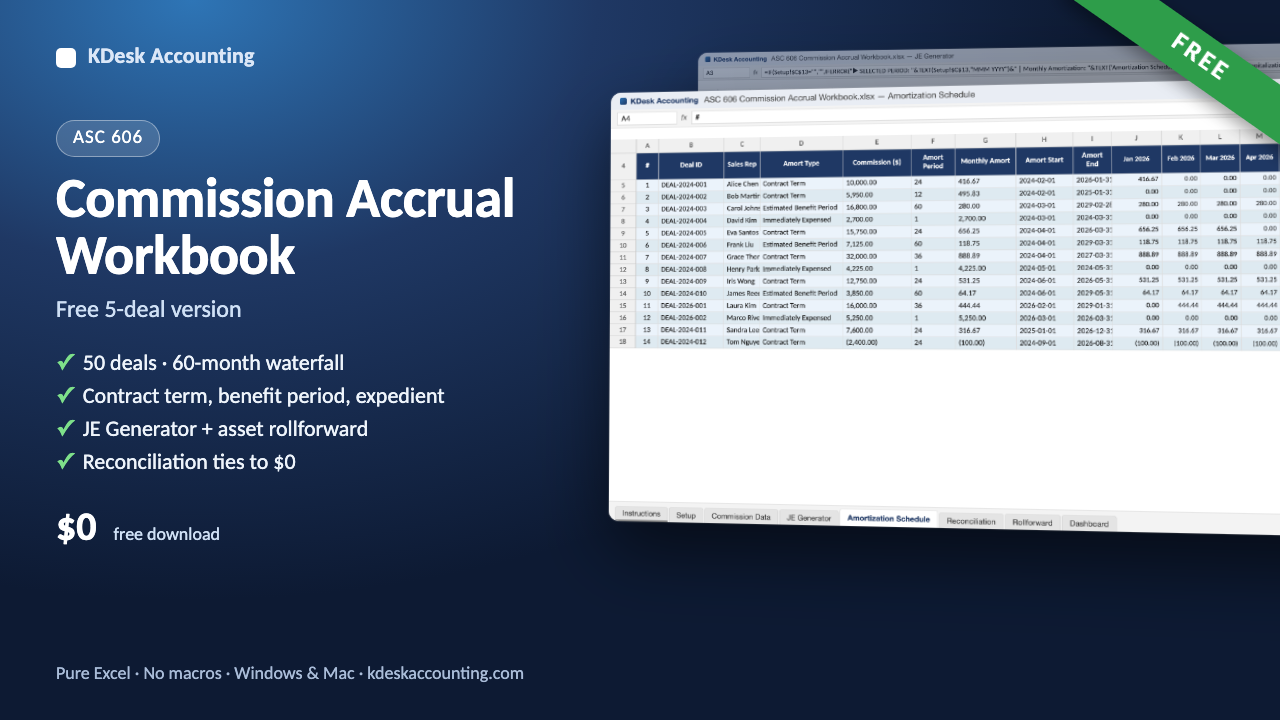
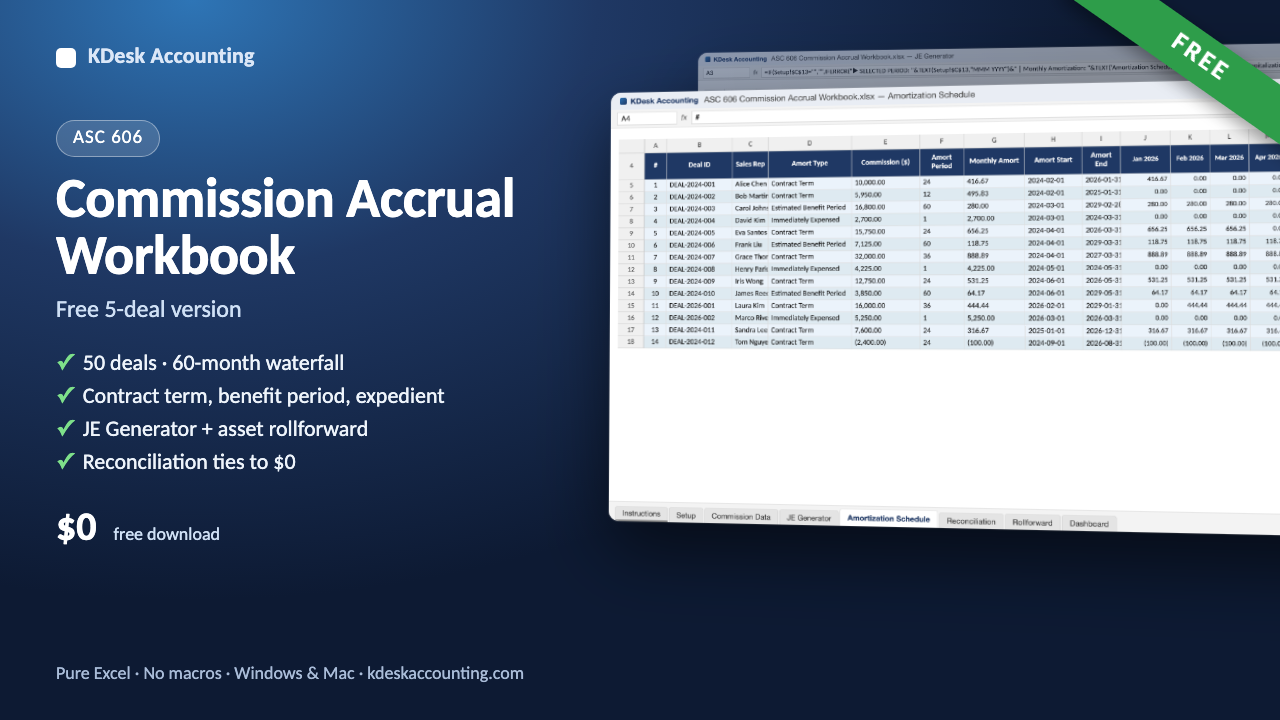
Repricing (decision 52 executed): ASC 842 $97→$249, ASC 606 $79→$249, bundle $249→$599 (list $693, saves $94) — product pages, templates index, homepage and list layouts, calculator CTAs, footer, video-spec cover prices, re-rendered covers
Claude-Session: https://claude.ai/code/session_01Lr6VMdS9aWNJCmhWcPCNAn

Changed region(s): [[0.4688, 0.2139, 1.0, 0.4889]]

diff --git a/layouts/index.html b/layouts/index.html
@@ -125,18 +125,18 @@
           <p class="kd-product__desc">
             All five workbooks in one purchase — ASC 842 leases, ASC 606 commissions,
             fixed assets, SaaS metrics, and runway — plus the month-end close checklist
-            that ties them together. $249 instead of $371.
+            that ties them together. $599 instead of $693.
           </p>
           <ul class="kd-product__features">
             <li>Six workbooks, one purchase — each lands in your Gumroad library as its own product</li>
             <li>Same conventions in every file: Setup tab, yellow inputs, JE Generator, reconciliation to $0</li>
-            <li>Save $122 vs. buying separately</li>
+            <li>Save $94 vs. buying separately</li>
           </ul>
         </div>
         <div class="kd-product__foot">
           <div class="kd-product__price">
-            <span class="kd-product__amount">$249</span>
-            <span class="kd-product__per">one time · $371 separately</span>
+            <span class="kd-product__amount">$599</span>
+            <span class="kd-product__per">one time · $693 separately</span>
           </div>
           <a class="kd-btn kd-btn--primary" href="https://kdeskaccounting.gumroad.com/l/saas-controller-bundle" target="_blank">Get the Bundle →</a>
           <a class="kd-product__free" href="/templates/bundle/">What's included →</a>
@@ -165,7 +165,7 @@
         </div>
         <div class="kd-product__foot">
           <div class="kd-product__price">
-            <span class="kd-product__amount">$79</span>
+            <span class="kd-product__amount">$249</span>
             <span class="kd-product__per">one time</span>
           </div>
           <a class="kd-btn kd-btn--primary" href="https://kdeskaccounting.gumroad.com/l/mwmwpe" target="_blank">Get Template →</a>
@@ -197,7 +197,7 @@
         </div>
         <div class="kd-product__foot">
           <div class="kd-product__price">
-            <span class="kd-product__amount">$97</span>
+            <span class="kd-product__amount">$249</span>
             <span class="kd-product__per">one time</span>
           </div>
           <a class="kd-btn kd-btn--primary" href="https://kdeskaccounting.gumroad.com/l/phxigq" target="_blank">Get Template →</a>
@@ -374,7 +374,7 @@
 <section class="kd-bottom-cta">
   <div class="kd-container kd-bottom-cta__inner">
     <h2>Stop rebuilding the same schedule every month.</h2>
-    <p>$49–$97 gets you a production-ready workbook that handles everything in this guide
+    <p>$49–$249 gets you a production-ready workbook that handles everything in this guide
     — and ties out every time. No subscription. No software contract.</p>
     <a class="kd-btn kd-btn--yellow" href="/templates/">Browse All Templates →</a>
   </div>

diff --git a/layouts/templates/list.html b/layouts/templates/list.html
@@ -60,17 +60,17 @@
           <h3 class="kd-product__name">SaaS Controller Bundle</h3>
           <p class="kd-product__desc">
             All five workbooks in one purchase — ASC 842, ASC 606, fixed assets, SaaS metrics,
-            runway — plus the free month-end close checklist. $249 instead of $371.
+            runway — plus the free month-end close checklist. $599 instead of $693.
           </p>
           <ul class="kd-product__features">
             <li>Six workbooks, one purchase — each lands in your Gumroad library as its own product</li>
             <li>Same Setup / inputs / JE / reconciliation conventions in every file</li>
-            <li>Save $122 vs. buying separately</li>
+            <li>Save $94 vs. buying separately</li>
           </ul>
         </div>
         <div class="kd-product__foot">
           <div class="kd-product__price">
-            <span class="kd-product__amount">$249</span>
+            <span class="kd-product__amount">$599</span>
             <span class="kd-product__per">one time</span>
           </div>
           <a class="kd-btn kd-btn--primary" href="https://kdeskaccounting.gumroad.com/l/saas-controller-bundle" target="_blank">Get the Bundle →</a>
@@ -101,7 +101,7 @@
         </div>
         <div class="kd-product__foot">
           <div class="kd-product__price">
-            <span class="kd-product__amount">$97</span>
+            <span class="kd-product__amount">$249</span>
             <span class="kd-product__per">one time</span>
           </div>
           <a class="kd-btn kd-btn--primary" href="https://kdeskaccounting.gumroad.com/l/phxigq" target="_blank">Get Template →</a>
@@ -132,7 +132,7 @@
         </div>
         <div class="kd-product__foot">
           <div class="kd-product__price">
-            <span class="kd-product__amount">$79</span>
+            <span class="kd-product__amount">$249</span>
             <span class="kd-product__per">one time</span>
           </div>
           <a class="kd-btn kd-btn--primary" href="https://kdeskaccounting.gumroad.com/l/mwmwpe" target="_blank">Get Template →</a>
@@ -278,7 +278,7 @@
 <section class="kd-bottom-cta">
   <div class="kd-container kd-bottom-cta__inner">
     <h2>Stop rebuilding the same schedule every month.</h2>
-    <p>$49–$97 gets you a production-ready workbook that handles everything above
+    <p>$49–$249 gets you a production-ready workbook that handles everything above
     — and ties out every time. No subscription. No software contract.</p>
     <a class="kd-btn kd-btn--yellow" href="https://kdeskaccounting.gumroad.com" target="_blank">Visit Gumroad Store →</a>
   </div>

diff --git a/layouts/calculator/single.html b/layouts/calculator/single.html
@@ -274,7 +274,7 @@
       <div class="calc-cta">
         <strong>Need the full schedule?</strong>
         <p>The ASC 606 Commission Accrual Workbook handles 50 deals simultaneously with dynamic period selection, journal entry generation, rollforward disclosure, and reconciliation — all in Excel, no macros.</p>
-        <a href="https://kdeskaccounting.gumroad.com/l/mwmwpe" target="_blank">Get the Workbook — $79 →</a>
+        <a href="https://kdeskaccounting.gumroad.com/l/mwmwpe" target="_blank">Get the Workbook — $249 →</a>
       </div>
     </div>
   </div>
@@ -321,7 +321,7 @@
       <div class="calc-cta">
         <strong>Need the full schedule for all your leases?</strong>
         <p>The ASC 842 Lease Accounting Workbook handles 20 leases simultaneously with dynamic period selection, six-category journal entry generation, ROU asset rollforward, and reconciliation — all in Excel, no macros.</p>
-        <a href="https://kdeskaccounting.gumroad.com/l/phxigq" target="_blank">Get the Workbook — $97 →</a>
+        <a href="https://kdeskaccounting.gumroad.com/l/phxigq" target="_blank">Get the Workbook — $249 →</a>
       </div>
     </div>
   </div>

diff --git a/layouts/partials/footer.html b/layouts/partials/footer.html
@@ -13,7 +13,7 @@
       <div class="kd-footer__col">
         <h4 class="kd-footer__heading">Templates</h4>
         <ul class="kd-footer__list">
-          <li><a href="/templates/bundle/">SaaS Controller Bundle <em>(all 5, $249)</em></a></li>
+          <li><a href="/templates/bundle/">SaaS Controller Bundle <em>(all 5, $599)</em></a></li>
           <li><a href="/templates/asc842/">ASC 842 Lease Accounting</a></li>
           <li><a href="/templates/asc606/">ASC 606 Commission Capitalization</a></li>
           <li><a href="/templates/fixed-assets/">Fixed Asset Rollforward</a></li>

diff --git a/content/templates/bundle/index.md b/content/templates/bundle/index.md
@@ -1,14 +1,14 @@
 ---
 title: "SaaS Controller Bundle — All Five KDesk Excel Workbooks"
-description: "All five KDesk workbooks in one purchase for $249 instead of $371: ASC 842 lease accounting, ASC 606 commission capitalization, fixed asset rollforward, SaaS metrics dashboard, and startup runway calculator, plus the free month-end close checklist. Pure Excel, no macros, no subscription."
-summary: "The five technical-accounting workbooks a SaaS controller maintains every close — leases, commissions, fixed assets, SaaS metrics, runway — at $249 instead of $371, plus the close checklist that ties them together."
+description: "All five KDesk workbooks in one purchase for $599 instead of $693: ASC 842 lease accounting, ASC 606 commission capitalization, fixed asset rollforward, SaaS metrics dashboard, and startup runway calculator, plus the free month-end close checklist. Pure Excel, no macros, no subscription."
+summary: "The five technical-accounting workbooks a SaaS controller maintains every close — leases, commissions, fixed assets, SaaS metrics, runway — at $249 instead of $693, plus the close checklist that ties them together."
 date: 2026-09-01
-lastmod: 2026-09-02
+lastmod: 2026-09-06
 author: "KDesk Accounting"
 ShowToc: true
 TocOpen: true
 weight: 0
-price: 249
+price: 599
 buy_url: "https://kdeskaccounting.gumroad.com/l/saas-controller-bundle"
 free_url: "/templates/"
 free_label: "See the individual workbooks"
@@ -17,7 +17,7 @@ faq:
   - q: "What exactly is in the bundle?"
     a: "Six .xlsx files: the ASC 842 Lease Accounting Workbook (20 leases), the ASC 606 Commission Accrual Workbook (50 deals), the Fixed Asset Rollforward Workbook (50 assets), the SaaS Metrics & ARR Dashboard (24 months), the Startup Runway Calculator (48 months), and the Month-End Close Checklist + Tie-Out Workbook. They are the same files sold individually."
   - q: "How much do I save?"
-    a: "Bought separately the five paid workbooks are $371 ($97 + $79 + $79 + $67 + $49). The bundle is $249, a $122 saving, one-time, no subscription."
+    a: "Bought separately the five paid workbooks are $693 ($249 + $249 + $79 + $67 + $49). The bundle is $249, a $94 saving, one-time, no subscription."
   - q: "Do I get updates?"
     a: "Yes. Gumroad keeps the download link live, and when a workbook gets a version update the new file is added to the same purchase."
   - q: "Can I buy one now and upgrade to the bundle later?"
@@ -26,9 +26,9 @@ faq:
     a: "Yes. Every workbook is pure Excel formulas — no VBA macros, no Windows-only features. Excel 2016, Excel 365, and Excel for Mac."
 ---
 
-If you run leases, commissions, fixed assets, SaaS metrics, and a cash forecast in Excel, you are maintaining five schedules that each need to tie to the general ledger every close. These are the five workbooks that do it — audit-ready, formula-complete, reconciled to $0 — in one purchase. **$249 one-time instead of $371. No subscription. No macros.**
+If you run leases, commissions, fixed assets, SaaS metrics, and a cash forecast in Excel, you are maintaining five schedules that each need to tie to the general ledger every close. These are the five workbooks that do it — audit-ready, formula-complete, reconciled to $0 — in one purchase. **$249 one-time instead of $693. No subscription. No macros.**
 
-[Get the Bundle ($249) →](https://kdeskaccounting.gumroad.com/l/saas-controller-bundle)
+[Get the Bundle ($599) →](https://kdeskaccounting.gumroad.com/l/saas-controller-bundle)
 
 ---
 
@@ -36,13 +36,13 @@ If you run leases, commissions, fixed assets, SaaS metrics, and a cash forecast 
 
 | Workbook | What it does | Sold alone |
 |---|---|---|
-| [ASC 842 Lease Accounting Workbook](/templates/asc842/) | 20 leases, operating and finance, 120-month schedules, JE Generator, rollforward, disclosure maturity table, reconciliation | $97 |
-| [ASC 606 Commission Accrual Workbook](/templates/asc606/) | 50 deals, three amortization bases, 60-month waterfall, JE Generator, deferred asset rollforward, reconciliation | $79 |
+| [ASC 842 Lease Accounting Workbook](/templates/asc842/) | 20 leases, operating and finance, 120-month schedules, JE Generator, rollforward, disclosure maturity table, reconciliation | $249 |
+| [ASC 606 Commission Accrual Workbook](/templates/asc606/) | 50 deals, three amortization bases, 60-month waterfall, JE Generator, deferred asset rollforward, reconciliation | $249 |
 | [Fixed Asset Rollforward Workbook](/templates/fixed-assets/) | 50 assets, four depreciation methods, JE presets for QuickBooks / NetSuite / Sage / Xero, disposal log, five-way reconciliation | $79 |
 | [SaaS Metrics & ARR Dashboard](/templates/saas-metrics/) | 24 months, MRR / ARR / NRR / churn / CAC / LTV / payback / Magic Number, board-ready dashboard | $67 |
 | [Startup Runway Calculator](/templates/runway/) | 12 to 48-month cash forecast, Base / Optimistic / Pessimistic scenarios, runway and cash-zero date | $49 |
 | [Month-End Close Checklist + Tie-Out](/templates/month-end-close/) | 42-task close calendar, 18 reconciliations, JE tracker, sign-off page — the scaffolding that holds the other five together | Free |
-| **Bundle** | | **$249** |
+| **Bundle** | | **$599** |
 
 Each product page has a four-minute walkthrough video of the workbook, tab by tab, on its real sample data.
 
@@ -72,7 +72,7 @@ The workbooks are standalone Excel files with capacity limits (20 leases, 50 dea
 
 ## Get the Bundle
 
-[**Get the Bundle ($249) →**](https://kdeskaccounting.gumroad.com/l/saas-controller-bundle)
+[**Get the Bundle ($599) →**](https://kdeskaccounting.gumroad.com/l/saas-controller-bundle)
 
 Not sure yet? Every workbook has a free version with the inputs and the schedule — start with the one that hurts most at your close: [ASC 842](/templates/asc842/), [ASC 606](/templates/asc606/), [fixed assets](/templates/fixed-assets/), [SaaS metrics](/templates/saas-metrics/), or [runway](/templates/runway/).
 
@@ -84,7 +84,7 @@ Not sure yet? Every workbook has a free version with the inputs and the schedule
 Six .xlsx files: the ASC 842 Lease Accounting Workbook (20 leases), the ASC 606 Commission Accrual Workbook (50 deals), the Fixed Asset Rollforward Workbook (50 assets), the SaaS Metrics & ARR Dashboard (24 months), the Startup Runway Calculator (48 months), and the Month-End Close Checklist + Tie-Out Workbook. They are the same files sold individually.
 
 **How much do I save?**
-Bought separately the five paid workbooks are $371. The bundle is $249, a $122 saving, one-time, no subscription.
+Bought separately the five paid workbooks are $693. The bundle is $599, a $94 saving, one-time, no subscription.
 
 **Do I get updates?**
 Yes. Gumroad keeps the download link live, and when a workbook gets a version update the new file is added to the same purchase.

diff --git a/content/templates/asc842/index.md b/content/templates/asc842/index.md
@@ -3,12 +3,12 @@ title: "ASC 842 Lease Accounting Excel Template (Free 3-Lease Version + Full 20-
 description: "ASC 842 implementation in Excel: a free 3-lease template and the full audit-ready workbook for controllers. Handles 20 leases, operating and finance lease types, monthly amortization schedules, journal entries, rollforward, and disclosure table. No macros, no subscription."
 summary: "The ASC 842 Lease Accounting Workbook handles your full lease portfolio — ROU asset calculation, lease liability amortization, period journal entries, balance sheet rollforward, and disclosure table — in a single audit-ready Excel file."
 date: 2026-03-16
-lastmod: 2026-09-03
+lastmod: 2026-09-06
 author: "KDesk Accounting"
 ShowToc: true
 TocOpen: true
 weight: 1
-price: 97
+price: 249
 buy_url: "https://kdeskaccounting.gumroad.com/l/phxigq"
 free_url: "https://kdeskaccounting.gumroad.com/l/gljxc"
 free_label: "Try free 3-lease version"
@@ -44,7 +44,7 @@ faq:
 
 If you're implementing ASC 842 for the first time, or your current spreadsheet breaks every time a lease changes, this workbook handles the math correctly and produces audit-ready output. **$97, one-time purchase. No subscription. No macros.**
 
-[Get the Workbook ($97) →](https://kdeskaccounting.gumroad.com/l/phxigq)
+[Get the Workbook ($249) →](https://kdeskaccounting.gumroad.com/l/phxigq)
 
 ---
 
@@ -171,13 +171,13 @@ This workbook is designed for companies with up to 20 leases. If you have 50–1
 | Excel version | 2016, 365, Mac (no macros) |
 | File format | .xlsx |
 | Formula protection | Locked formula cells, unlocked input cells |
-| Price | $97 one-time |
+| Price | $249 one-time |
 
 ---
 
 ## Get the Workbook
 
-[**Get the Workbook ($97) →**](https://kdeskaccounting.gumroad.com/l/phxigq)
+[**Get the Workbook ($249) →**](https://kdeskaccounting.gumroad.com/l/phxigq)
 
 Not ready to buy? [Try the free 3-lease version](https://kdeskaccounting.gumroad.com/l/gljxc) — the Setup, Lease Data and Lease Schedule tabs for 3 leases and 36 months, so you can check the math on your own leases. The JE Generator, rollforward, disclosure table and reconciliation are in the full workbook (see the comparison above).
 

diff --git a/content/templates/asc606/index.md b/content/templates/asc606/index.md
@@ -2,13 +2,13 @@
 title: "ASC 606 Commission Capitalization Excel Template"
 description: "Audit-ready Excel workbook for capitalizing and amortizing sales commissions under ASC 340-40. Handles 50 deals, three amortization methods, automated journal entries, rollforward, and reconciliation. No macros, no subscription."
 summary: "The ASC 606 Commission Accrual Workbook handles your full deferred commission asset — capitalization, amortization schedule, period journal entries, and rollforward — in a single audit-ready Excel file."
-lastmod: 2026-09-03
+lastmod: 2026-09-06
 date: 2026-03-16
 author: "KDesk Accounting"
 ShowToc: true
 TocOpen: true
 weight: 2
-price: 79
+price: 249
 buy_url: "https://kdeskaccounting.gumroad.com/l/mwmwpe"
 free_url: "https://kdeskaccounting.gumroad.com/l/cjexre"
 free_label: "Try free 5-deal version"
@@ -46,7 +46,7 @@ faq:
 
 If you're capitalizing sales commissions for the first time, or your current spreadsheet breaks every time a deal renews, this workbook handles the math correctly and produces audit-ready output. **$79, one-time purchase. No subscription. No macros.**
 
-[Get the Workbook ($79) →](https://kdeskaccounting.gumroad.com/l/mwmwpe)
+[Get the Workbook ($249) →](https://kdeskaccounting.gumroad.com/l/mwmwpe)
 
 ---
 
@@ -162,13 +162,13 @@ This workbook handles the commission cost side of ASC 606 (ASC 340-40) — the a
 | Excel version | 2016, 365, Mac (no macros) |
 | File format | .xlsx |
 | Formula protection | Locked formula cells, unlocked input cells |
-| Price | $79 one-time |
+| Price | $249 one-time |
 
 ---
 
 ## Get the Workbook
 
-[**Get the Workbook ($79) →**](https://kdeskaccounting.gumroad.com/l/mwmwpe)
+[**Get the Workbook ($249) →**](https://kdeskaccounting.gumroad.com/l/mwmwpe)
 
 Not ready to buy? [Try the free 5-deal version](https://kdeskaccounting.gumroad.com/l/cjexre) — the Setup, Commission Data and Amortization Schedule tabs for 5 deals and 24 months, so you can check the waterfall on your own deals. The JE Generator, rollforward, reconciliation and dashboard are in the full workbook (see the comparison above).
 

diff --git a/content/templates/_index.md b/content/templates/_index.md
@@ -10,13 +10,13 @@ Each template is purpose-built for one workflow. No generic spreadsheet packs. E
 
 ## Available Templates
 
-### [SaaS Controller Bundle](/templates/bundle/) — $249
-All five paid workbooks plus the free close checklist in one purchase. $371 bought separately. Same Setup / inputs / JE Generator / reconciliation conventions in every file.
+### [SaaS Controller Bundle](/templates/bundle/) — $599
+All five paid workbooks plus the free close checklist in one purchase. $693 bought separately. Same Setup / inputs / JE Generator / reconciliation conventions in every file.
 
-### [ASC 842 Lease Accounting Workbook](/templates/asc842/) — $97
+### [ASC 842 Lease Accounting Workbook](/templates/asc842/) — $249
 ROU asset, lease liability, amortization schedule, journal entries, rollforward, and disclosure table for operating and finance leases. 20-lease capacity. Non-chained PV formulas. Free 3-lease version available.
 
-### [ASC 606 Commission Capitalization Workbook](/templates/asc606/) — $79
+### [ASC 606 Commission Capitalization Workbook](/templates/asc606/) — $249
 Capitalizes and amortizes sales commissions under ASC 340-40 for SaaS companies with multi-year contracts. 50-deal capacity, three amortization methods, automated journal entries, and reconciliation. Free 5-deal version available.
 
 ### [Fixed Asset Rollforward Workbook](/templates/fixed-assets/) — $79
